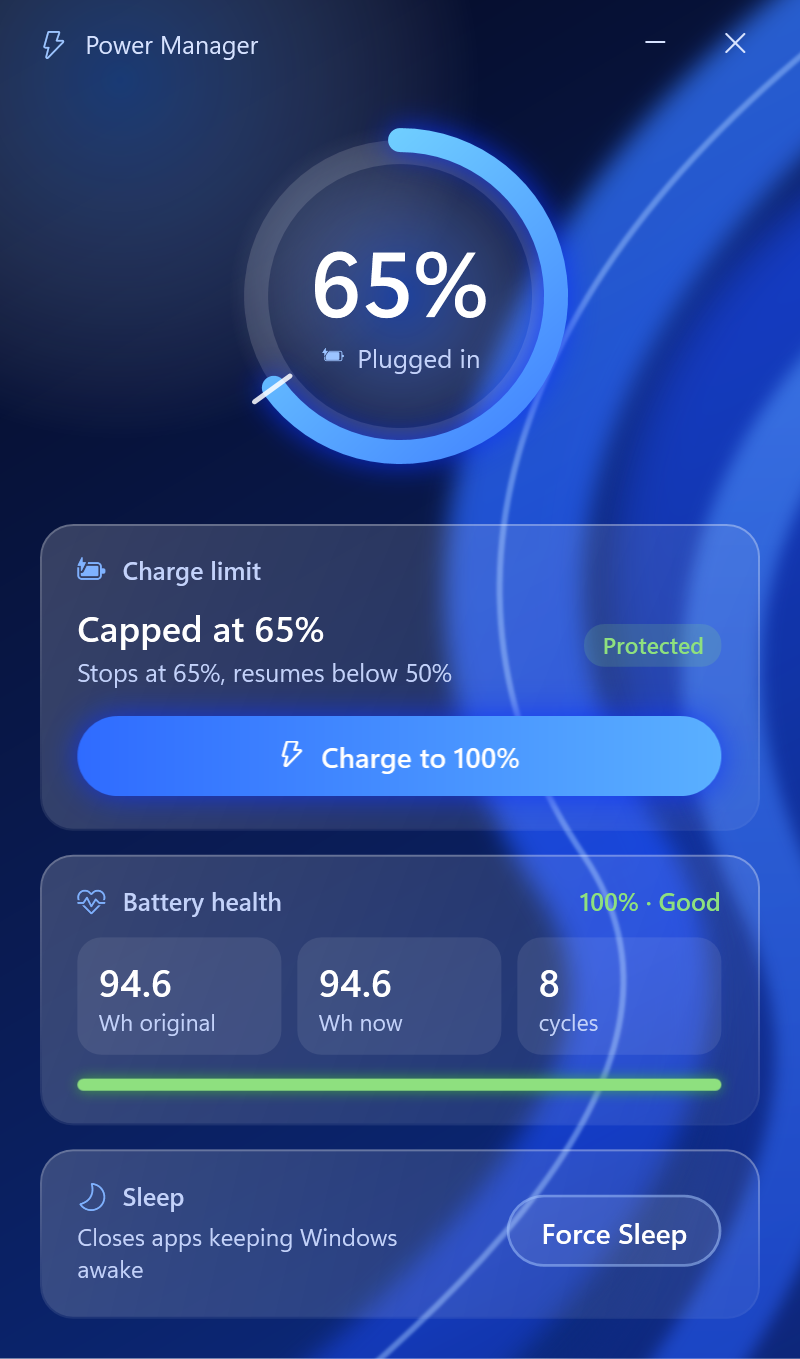
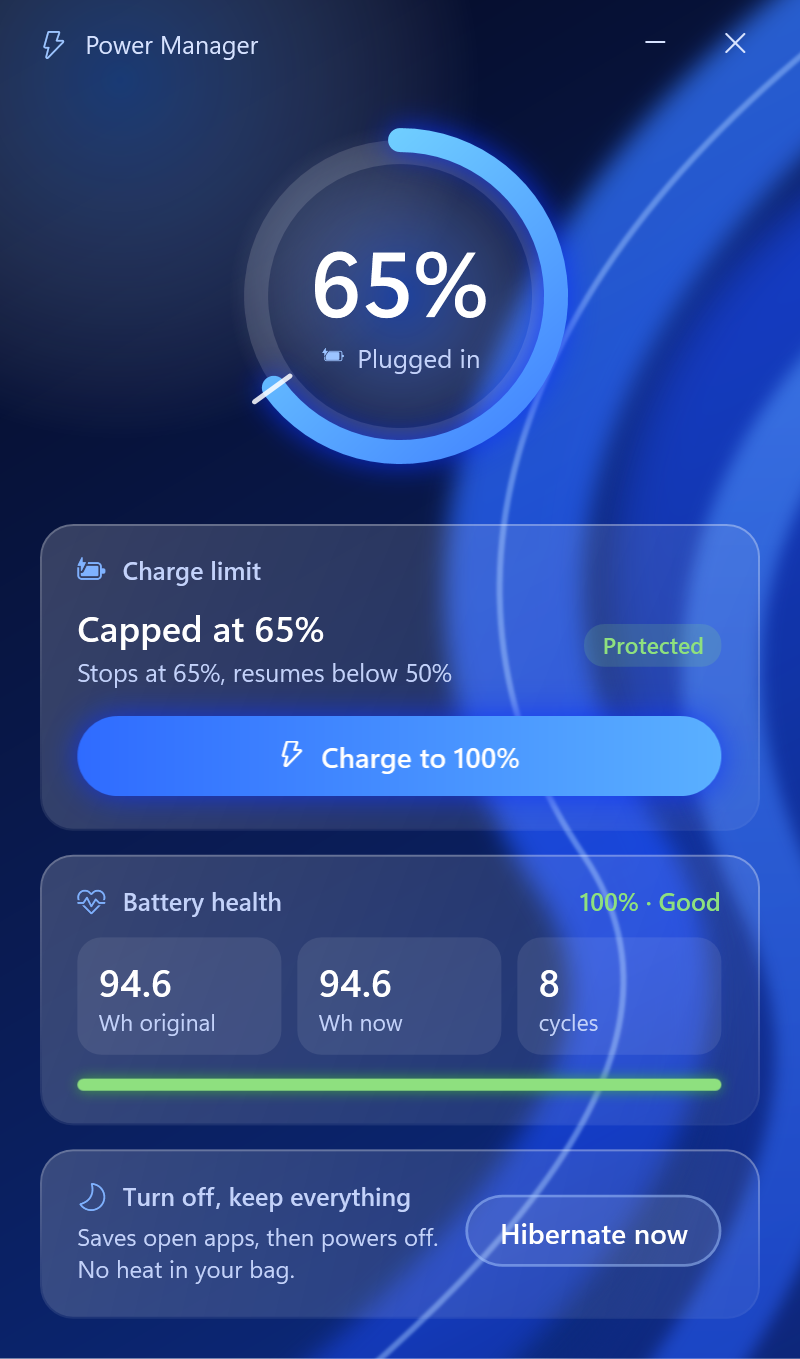
Replace Force Sleep with Hibernate now
Modern Standby on a docked laptop can stay at full power with the lid
closed (sleep study showed 0% low-power residency), so closing apps
before sleeping doesn't stop the heat. Hibernate powers fully off and
restores the session, so nothing needs closing.

- "Hibernate now" button runs shutdown /h after the window closes. No
  app closing, no confirmation list, no admin rights needed for it.
- Removed the powercfg /requests blocker detection and SetSuspendState.
- README: explains Modern Standby heat and how to make the lid hibernate;
  updated features, how it works, customize; new screenshot.

Changed region(s): [[0.0938, 0.8653, 0.5312, 0.9581], [0.625, 0.8653, 0.875, 0.9272], [0.5625, 0.8962, 0.5938, 0.9272]]

diff --git a/README.md b/README.md
@@ -1,14 +1,14 @@
 # Power Manager
 
-One small window for your Windows 11 laptop's battery and sleep:
+One small window for your Windows 11 laptop's battery:
 
 - **Charge limit**: cap charging at 65% while you're docked, or charge to 100% before you go out. Switches immediately, with no reboot (Dell laptops, via Dell Command | Configure).
 - **Battery health**: the battery's original (design) capacity, its full charge capacity today, and how many charge cycles it has completed.
-- **Force Sleep**: closes the apps that keep Windows awake, then puts the laptop to sleep.
+- **Hibernate now**: saves everything you have open and powers the laptop fully off, so it can't heat up in a bag. Nothing is closed; it all comes back when you turn the laptop on.
 
-<p align="center"><img src="docs/screenshot.png" width="400" alt="Power Manager window: battery ring at 65%, charge limit card, battery health card, Force Sleep card"></p>
+<p align="center"><img src="docs/screenshot.png" width="400" alt="Power Manager window: battery ring at 65%, charge limit card, battery health card, Hibernate now card"></p>
 
-Battery health and Force Sleep work on any Windows 11 laptop. The charge limit needs a Dell laptop out of the box; on other brands that card says "Not available" until you plug in your vendor's tool (see [Other laptop brands](#other-laptop-brands)).
+Battery health and Hibernate now work on any Windows 11 laptop. The charge limit needs a Dell laptop out of the box; on other brands that card says "Not available" until you plug in your vendor's tool (see [Other laptop brands](#other-laptop-brands)).
 
 ## Compatibility
 
@@ -18,7 +18,7 @@ Battery health and Force Sleep work on any Windows 11 laptop. The charge limit n
 | Runtime | Built-in Windows PowerShell 5.1 and WPF (.NET Framework 4.8). Nothing to download. PowerShell 7 also works. |
 | Charge limit | Dell laptops with [Dell Command \| Configure](https://www.dell.com/support/kbdoc/en-us/000178000/dell-command-configure) installed and no BIOS admin password set. |
 | Battery health | Any laptop whose battery driver reports capacity and cycle count (almost all). Shows "--" for any value the battery doesn't report. |
-| Force Sleep | Any laptop, including Modern Standby (S0) laptops. |
+| Hibernate now | Any laptop with hibernate turned on (the default on most laptops). |
 
 Everything the app uses is a long-standing Windows interface, so Windows updates shouldn't break it. It doesn't use the HTML battery report, Store APIs, or anything that needs a particular Windows 11 build. The two Windows 11-only touches, dark window frame and rounded corners, are simply skipped by builds that don't support them.
 
@@ -47,9 +47,25 @@ Run `Install.cmd` again after any change to the script or background, or to upda
 - **Ring gauge**: current battery level and whether you're plugged in. When a charge limit is set, a white tick marks where charging stops.
 - **Charge limit**: shows whether charging is capped. The button switches between **Charge to 100%** and **Cap at 65%**. The change takes effect immediately.
 - **Battery health**: original capacity and full charge capacity in watt-hours, charge cycles, and health (full charge ÷ original). Health of 80% or more shows as Good, 60–79% as Worn, below 60% as Replace soon.
-- **Force Sleep**: checks which apps are keeping Windows awake (for example a browser playing video), lists them, and asks before closing them. Each app gets 10 seconds to close normally; any still running are then killed, so unsaved work in them is lost. Core Windows processes such as `svchost` and `explorer` are never closed. On Modern Standby laptops, sleep means Modern Standby, and the laptop then hibernates according to its "Hibernate after" power setting.
+- **Hibernate now**: saves your open apps and documents to disk and powers the laptop fully off. It can't be kept awake by apps or drivers, so it stays cool. Nothing is closed: when you turn the laptop on, everything is back as you left it. Turning on takes about 10-20 seconds instead of being instant.
 
 Press **Esc** or the close button to close the window. Task Scheduler ends the window if it's left open for more than an hour.
+
+## Stop the laptop getting hot in a bag
+
+Many Windows 11 laptops use Modern Standby instead of classic sleep. In Modern Standby the laptop is meant to drop to very low power, but an app, a driver or a dock can keep it running at full power with the lid closed. That's how a laptop ends up hot after hours in a backpack.
+
+Hibernate doesn't have that problem: the laptop is fully off. To make **closing the lid** hibernate (on battery and when plugged in), run this once in PowerShell:
+
+```powershell
+powercfg /setacvalueindex SCHEME_CURRENT SUB_BUTTONS LIDACTION 2
+powercfg /setdcvalueindex SCHEME_CURRENT SUB_BUTTONS LIDACTION 2
+powercfg /setactive SCHEME_CURRENT
+```
+
+To go back to sleep on lid close, run the same commands with `1` instead of `2`. You can also change it in **Control Panel > Power Options > Choose what the closing the lid does**.
+
+To check whether standby really reaches low power on your laptop, run `powercfg /sleepstudy` in an admin PowerShell and open the report it saves.
 
 ## How it works
 
@@ -58,10 +74,9 @@ Press **Esc** or the close button to close the window. Task Scheduler ends the w
 | Battery level | `Win32_Battery` (WMI) |
 | Original capacity, full charge capacity, cycles | The battery driver itself, via `IOCTL_BATTERY_QUERY_INFORMATION`. This is the same data `powercfg /batteryreport` reads, but it takes a few milliseconds instead of generating an HTML file, and it needs no admin rights. Multiple batteries are added together. |
 | Charge limit | `cctk.exe --PrimaryBattChargeCfg` (Dell Command \| Configure) |
-| Apps keeping Windows awake | `powercfg /requests` |
-| Sleep | `SetSuspendState` (powrprof.dll) |
+| Hibernate now | `shutdown /h` |
 
-The window needs admin rights for `cctk.exe` and `powercfg /requests`. The scheduled task provides them without a prompt.
+The window needs admin rights for `cctk.exe`. The scheduled task provides them without a prompt.
 
 ## Customize
 
@@ -97,12 +112,6 @@ For example, a purple look: `Bg2 = '#2A0F55'`, `Bg3 = '#4B1A8A'`, `Ribbon1 = '#7
 ### Background image
 
 Put an image named `background.png` or `background.jpg` in the repository folder and run `Install.ps1` again. It's drawn over the ribbons at 35% opacity and cropped to fill the window. A dark image of about 800 × 1400 pixels works best. Delete it and reinstall to go back to the default.
-
-### Force Sleep
-
-- **Apps it never closes:** add process names (without `.exe`) to `$sleepProtected`.
-- **What counts as keeping Windows awake:** `Get-SleepBlockers` looks at the `DISPLAY`, `SYSTEM`, `AWAYMODE` and `EXECUTION` sections of `powercfg /requests`.
-- **Hibernate instead of sleep:** change `SetSuspendState($false, ...)` in `Invoke-Sleep` to `SetSuspendState($true, ...)`.
 
 ### Other laptop brands
 
